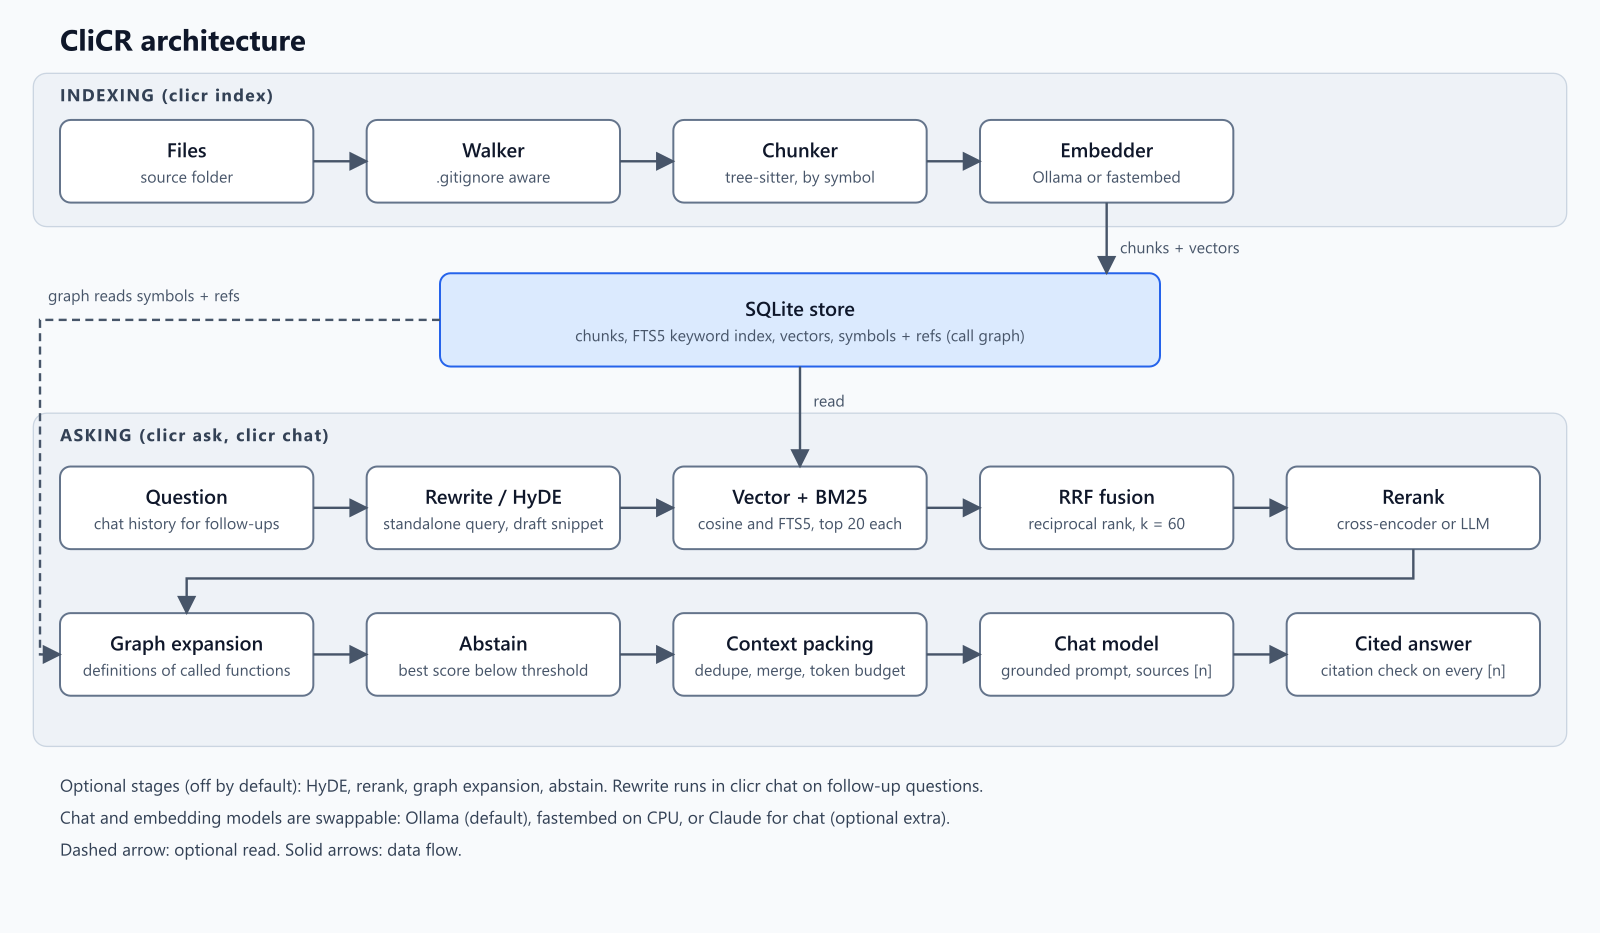
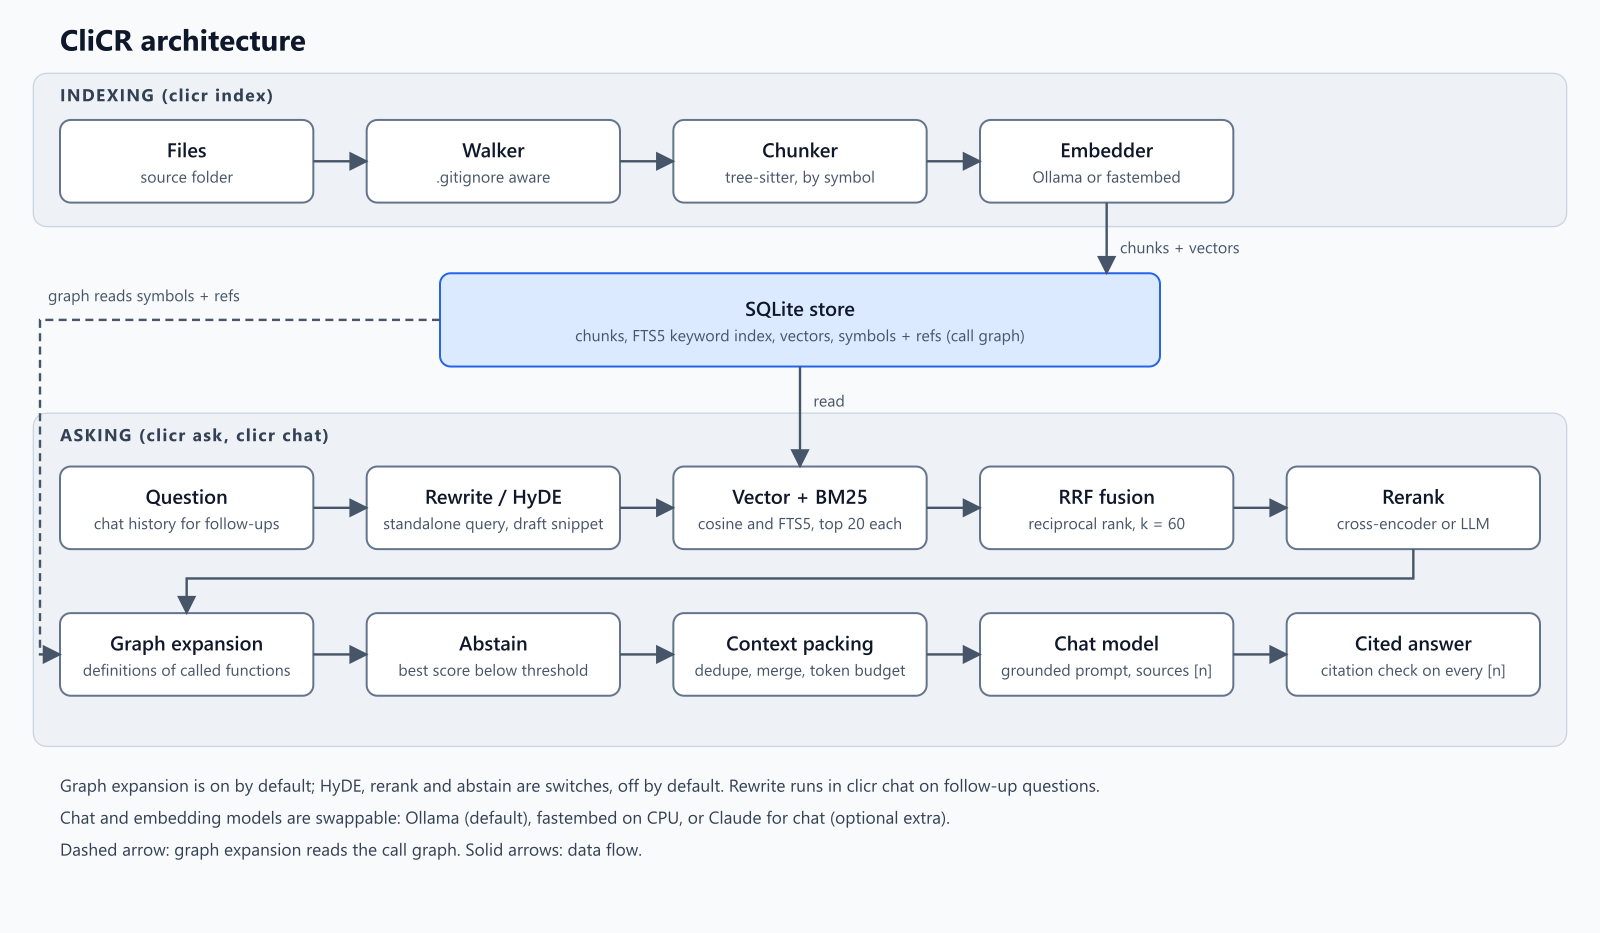
[DOCS] - Embed the terminal demo in the README; diagram says graph expansion is on by default

Changed region(s): [[0.0312, 0.8392, 0.6875, 0.8703], [0.125, 0.9014, 0.4062, 0.9325]]

diff --git a/README.md b/README.md
@@ -6,6 +6,10 @@ Ask questions about a codebase from the terminal. CliCR indexes a folder on your
 
 <!-- media:demo -->
 
+![Terminal demo: clicr indexes its own repository, answers a question with cited code panels, then shows the --explain ranking table](docs/media/demo.gif)
+
+*Recorded with VHS in Docker and played back at 3x: answers come from qwen2.5-coder:7b running locally on a power-limited laptop GPU.*
+
 <!-- link:web-demo -->
 
 ## What it does
